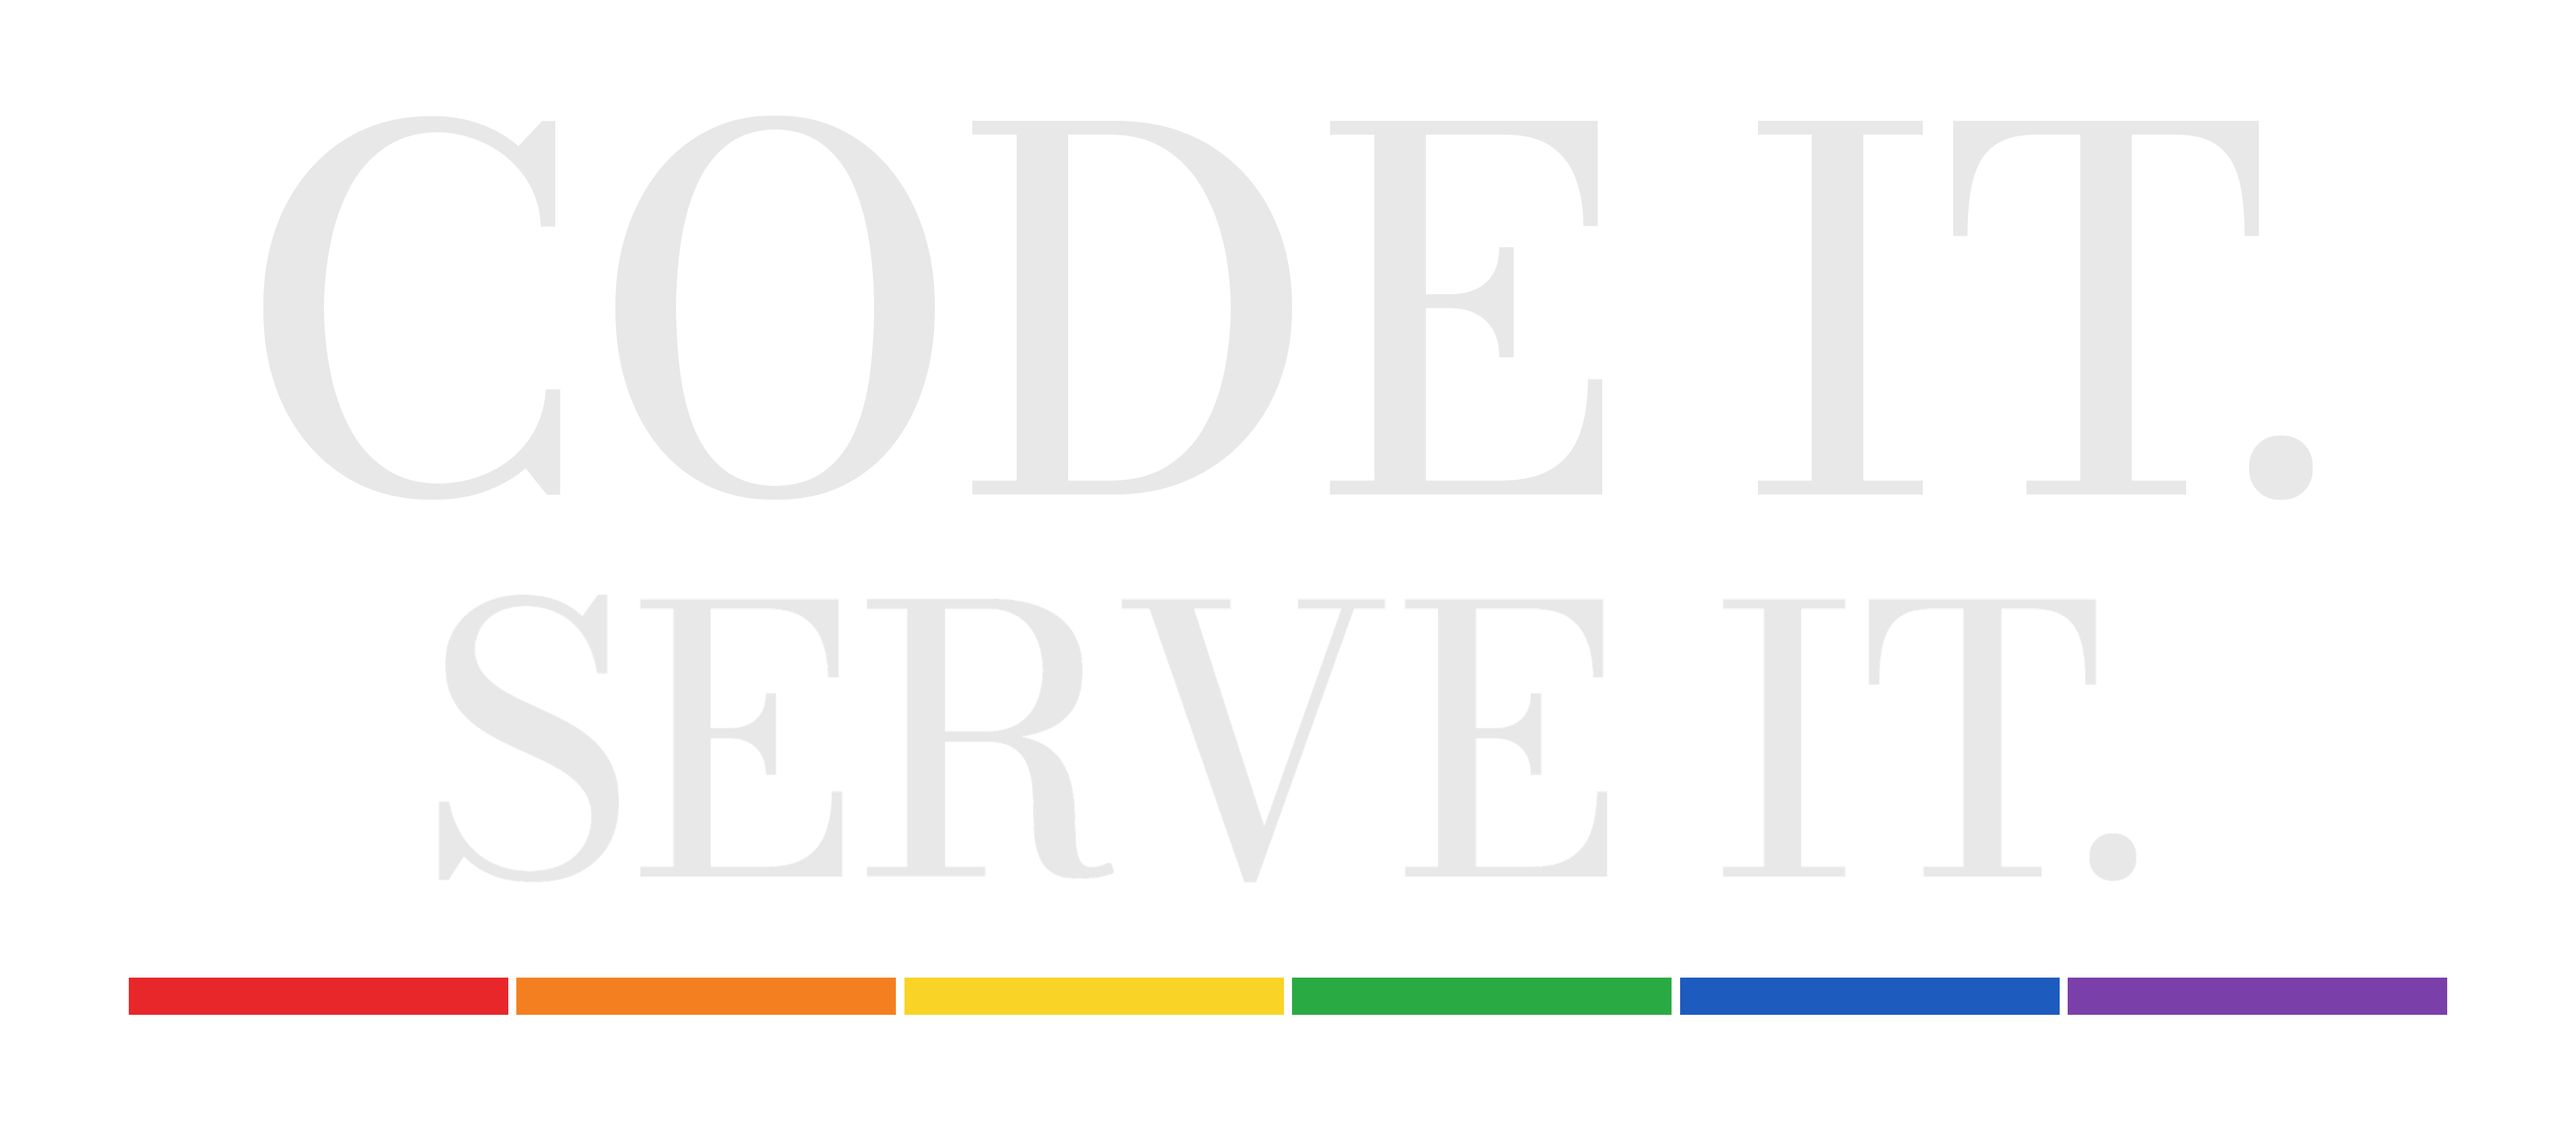
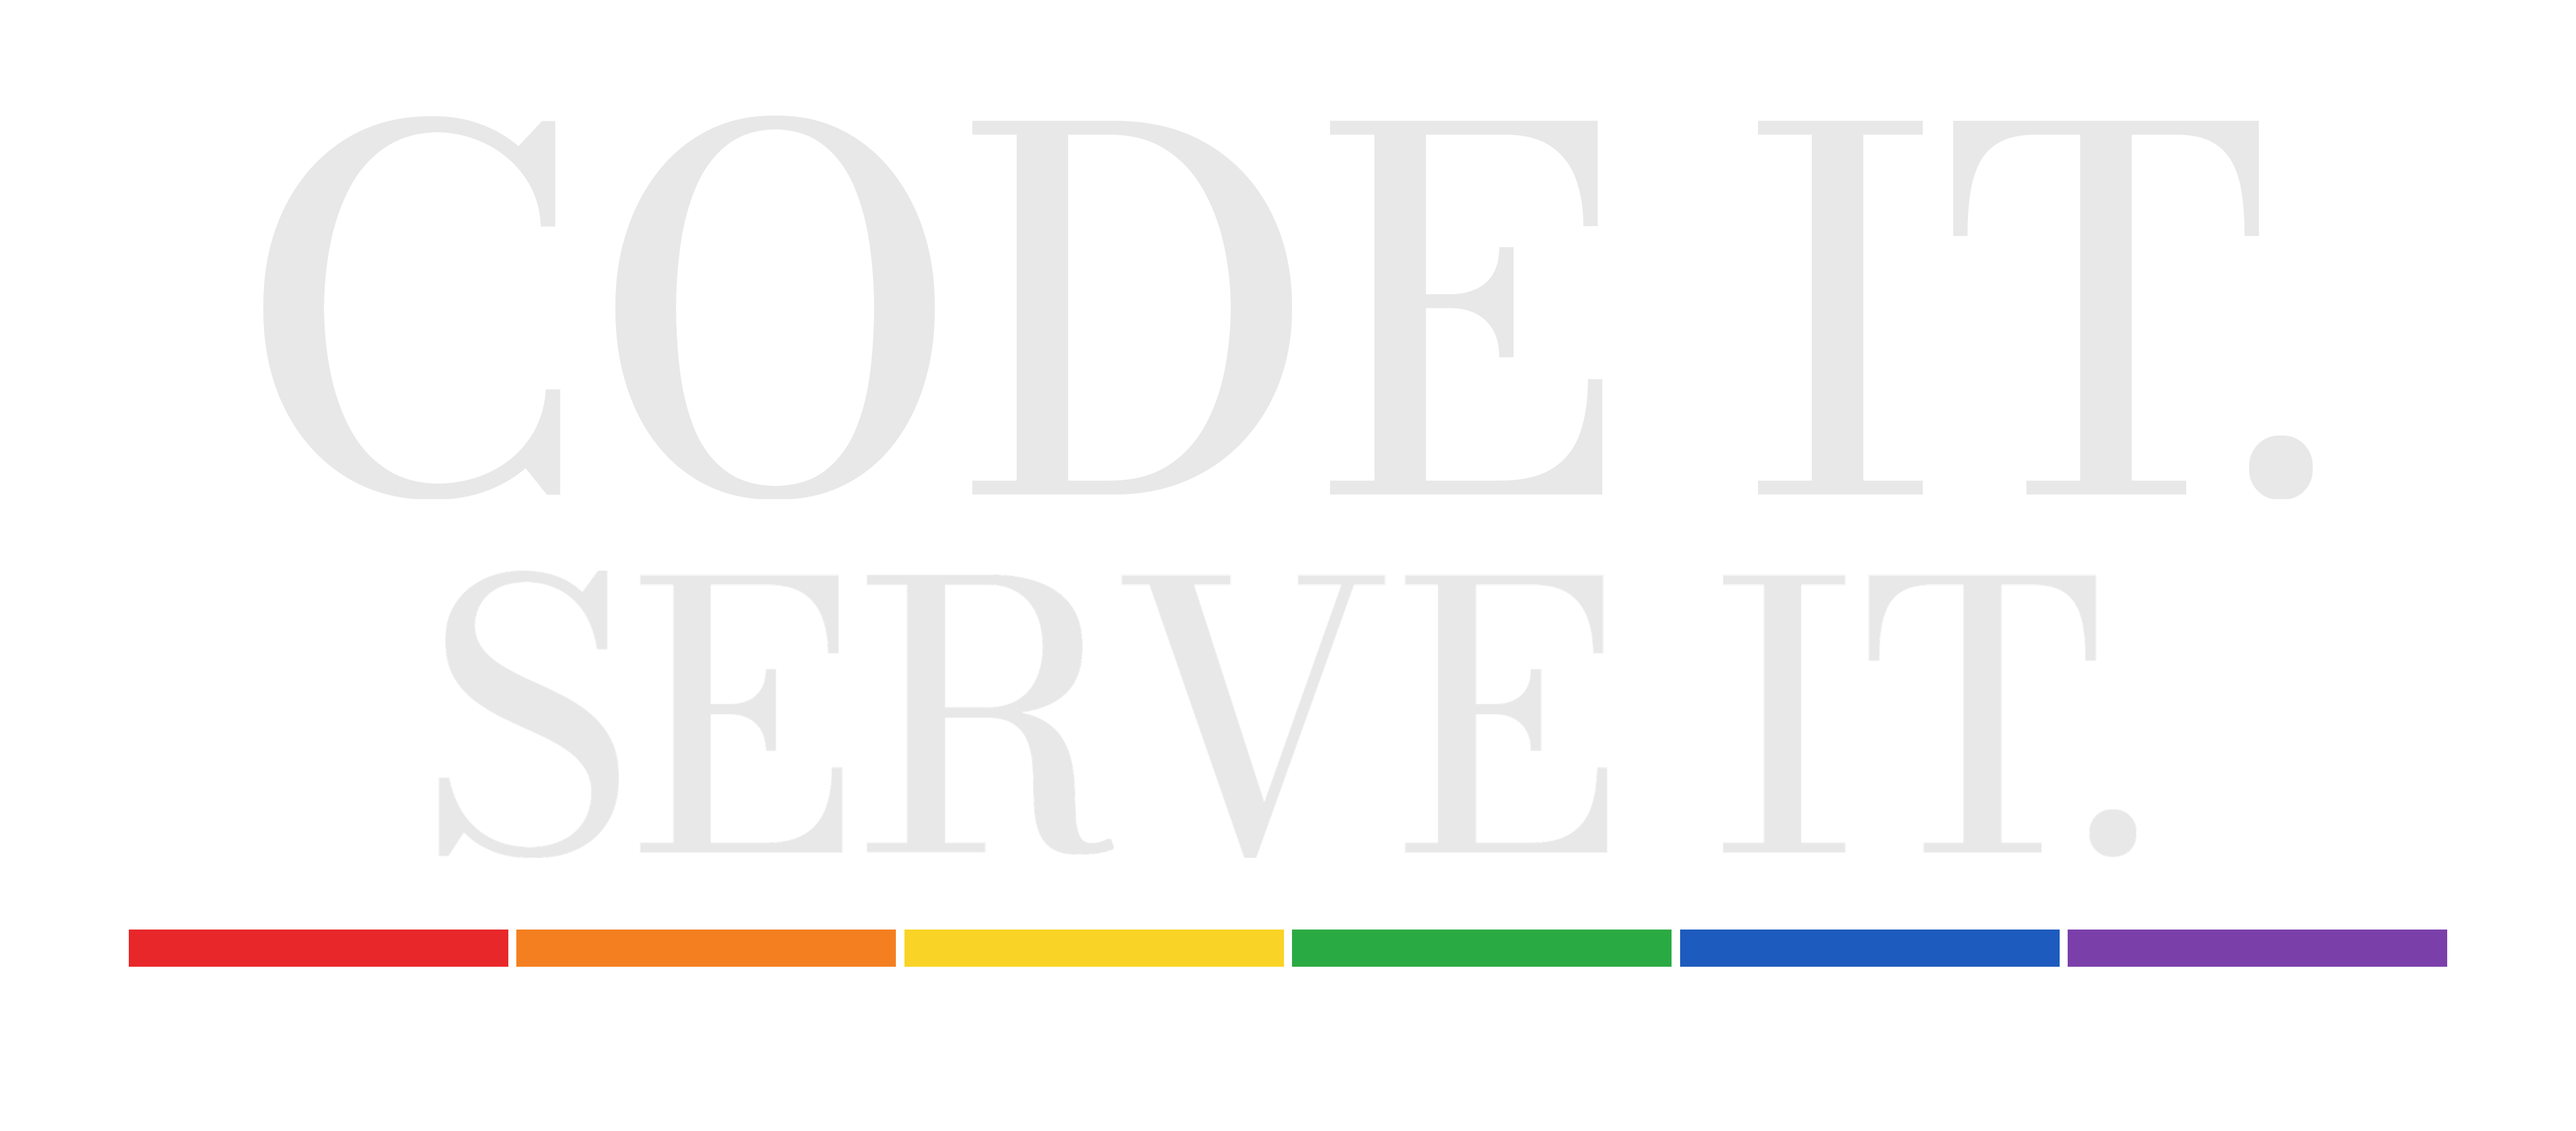
Tighten Off The Clock and Code It line spacing, -25% uniformly
Claude-Session: https://claude.ai/code/session_01VwDCHt8ADP2wXBC2gUM4Zh

Changed region(s): [[0.0311, 0.8026, 0.9644, 0.8952]]

diff --git a/CHANGELOG.md b/CHANGELOG.md
@@ -121,3 +121,5 @@ Why: Maurice's call to put every product in one system; older print files and th
 Why: Maurice's call, the Inter tagline experiment is retired same-day it shipped.
 2026-09-25 Fixed Please Hold sticker: line 2 was 23% of line 1's size (never rebalanced in the 09-10 pass), now 45% via --l2-w=1.03, legible. Documented that make_print_file.py's spacing formula is stale vs the committed pixel-shifted masters; future spacing edits must pixel-shift the existing file, not re-render.
 Why: real bug found on the reverted Bodoni files, confirmed on pixels.
+2026-09-25 Tightened Off The Clock's line1-to-line2 gap -25% (bottom gap left alone, per Maurice). Code It's top and bottom gaps both -25%, same cut as Off The Clock, keeping its own top/bottom symmetry. Pixel-shift only, no re-render.
+Why: Maurice: the gap was still too wide and inconsistent between designs; same treatment on both, no more candidates.
